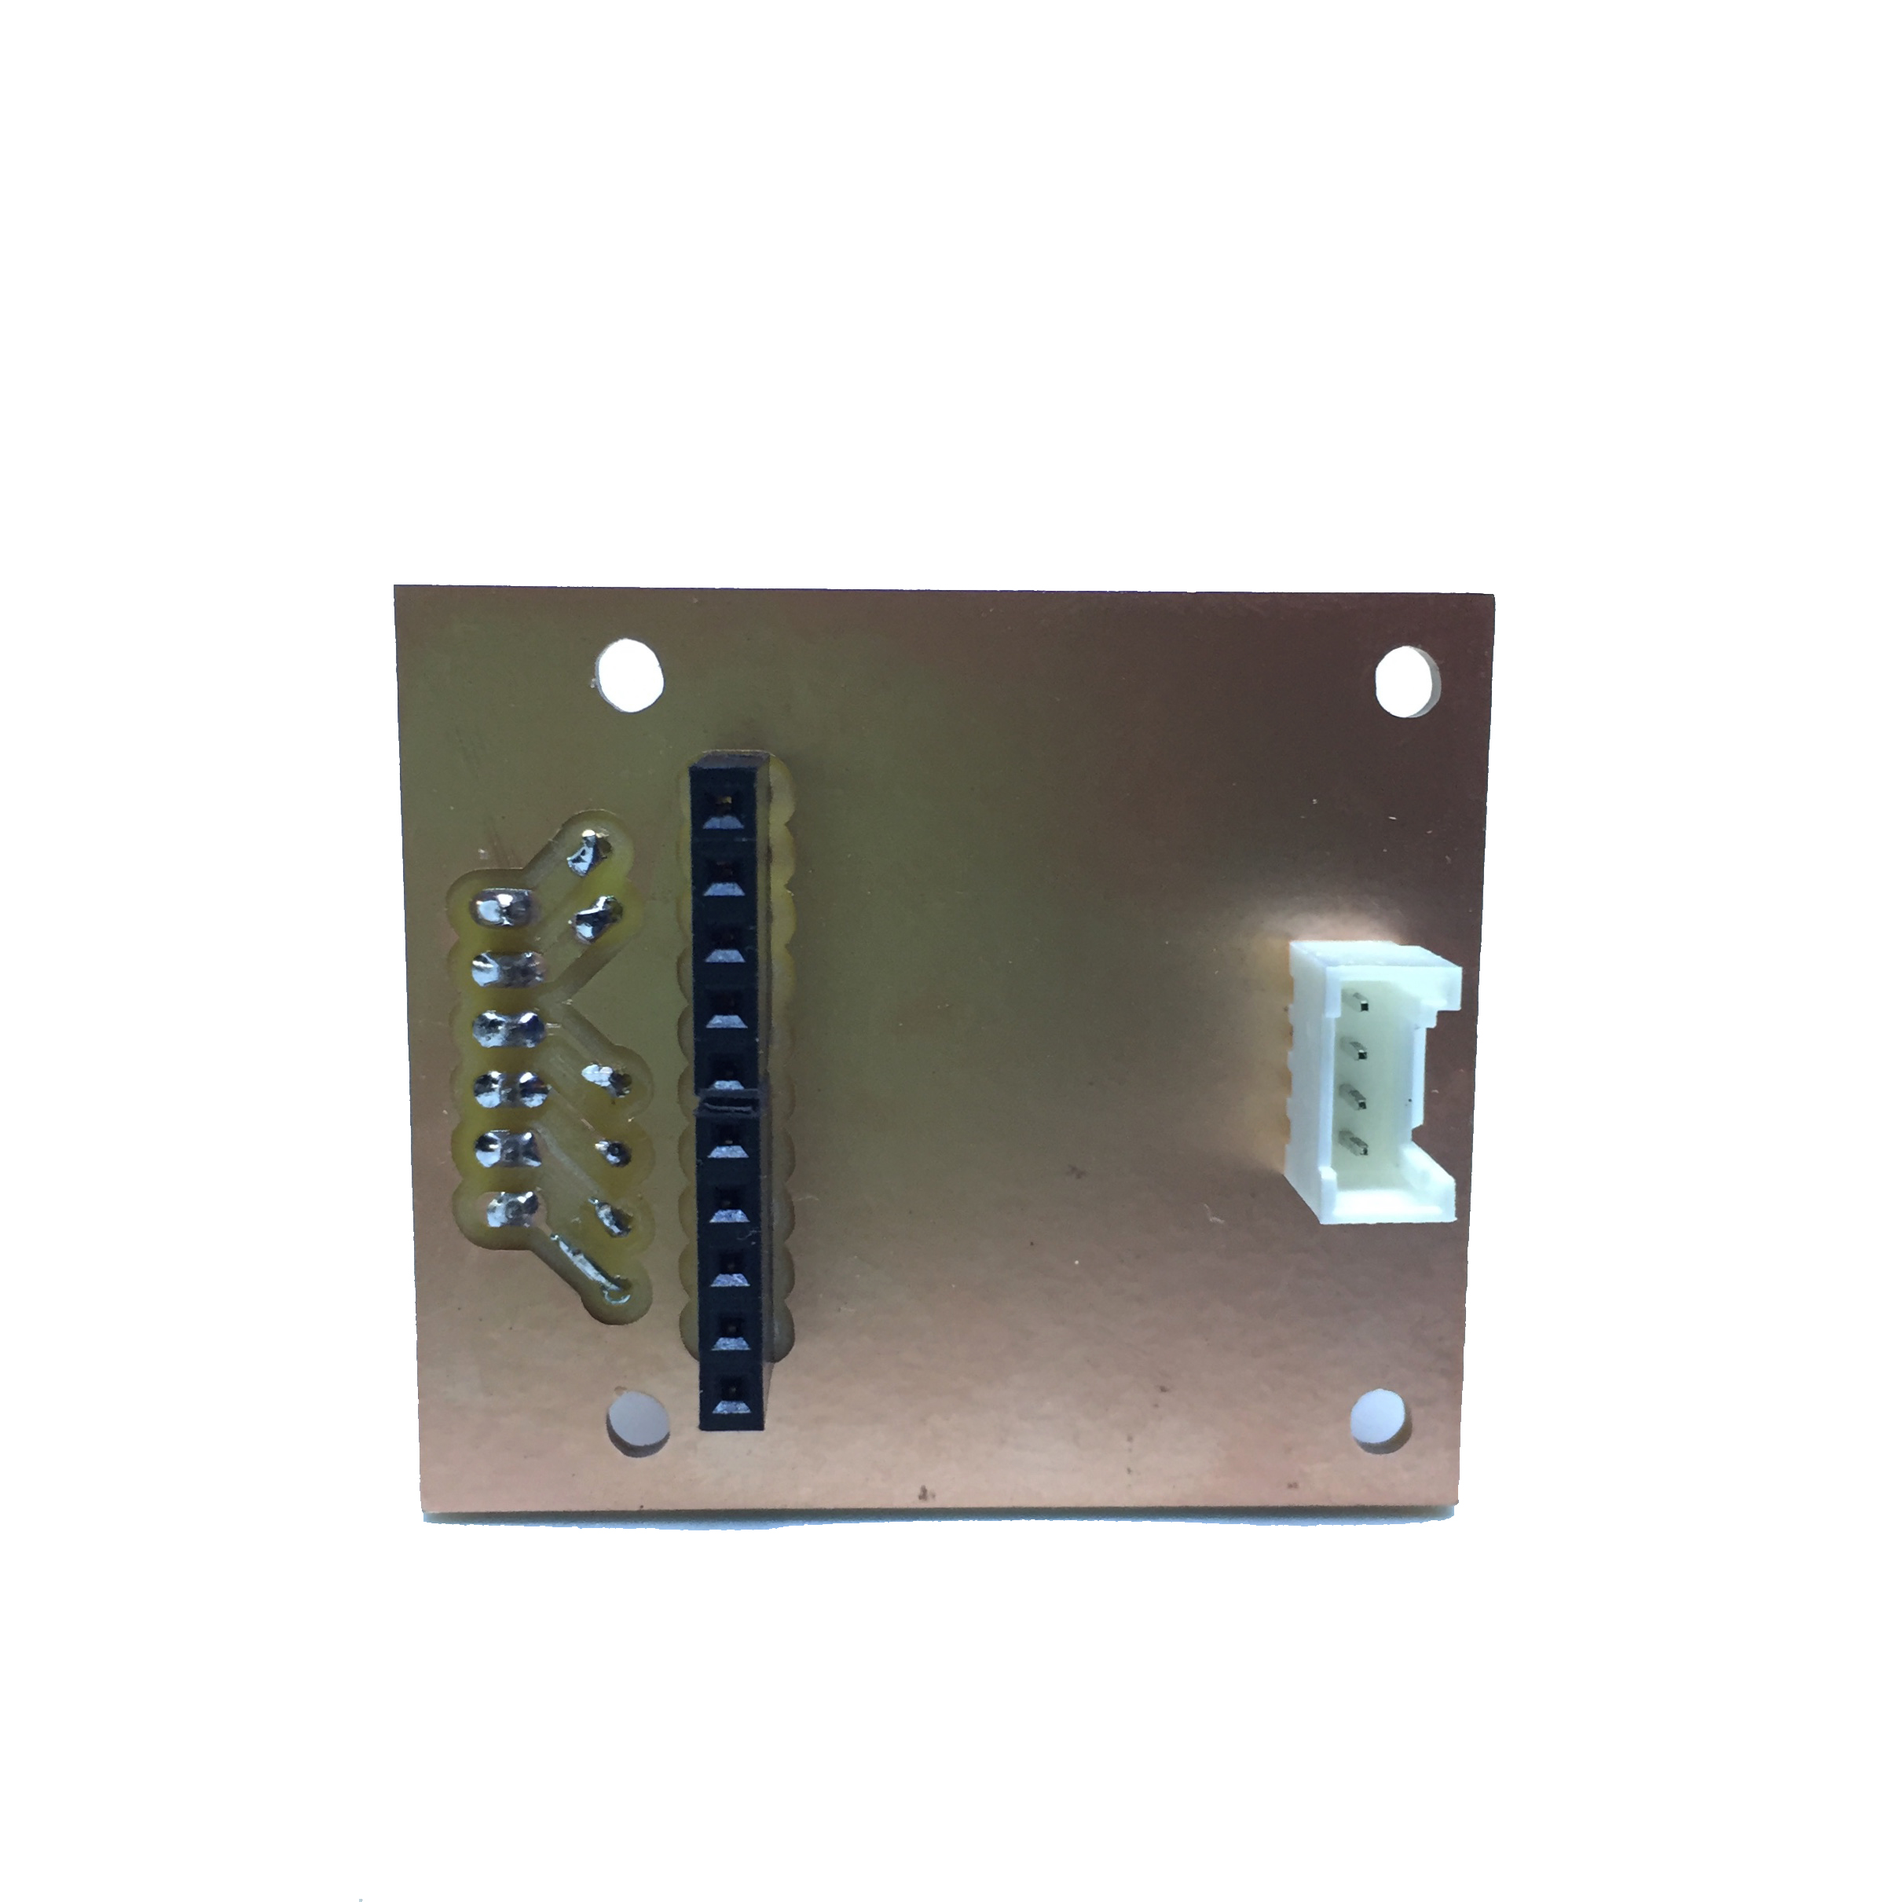
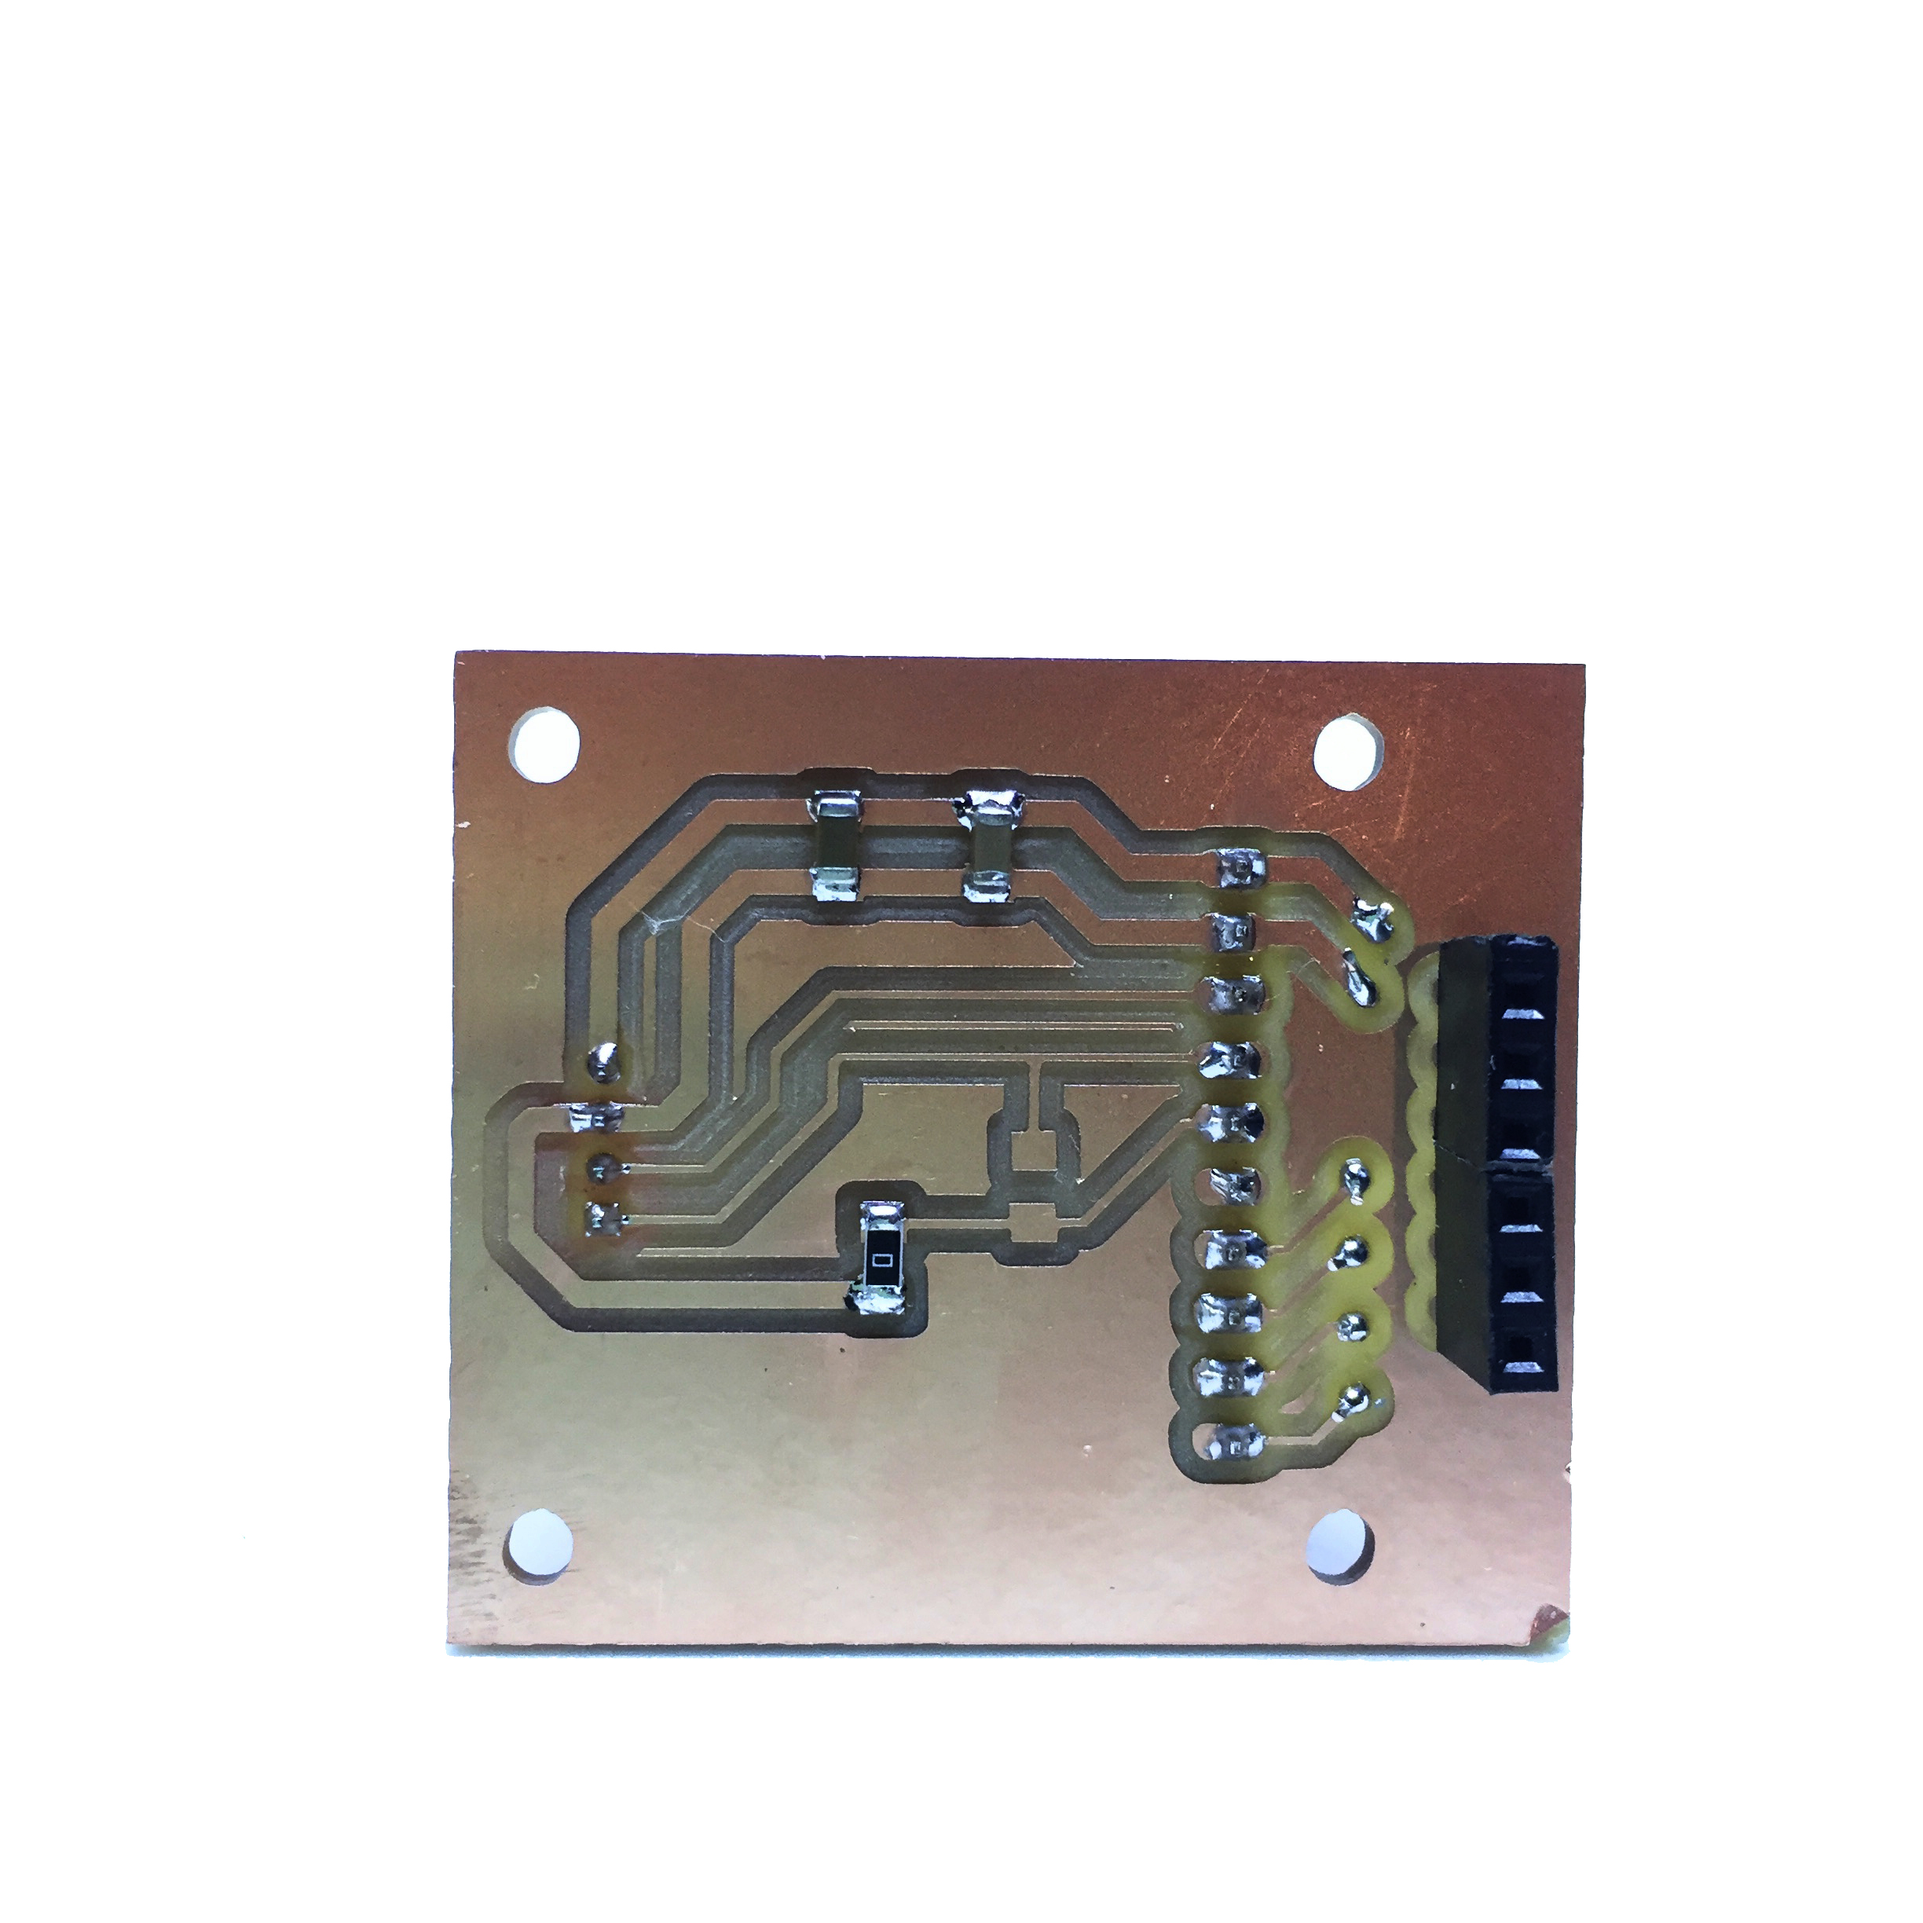
hardware

Changed region(s): [[0.1859, 0.3098, 0.8364, 0.8674]]

diff --git a/MUV Kit/Hardware/README.md b/MUV Kit/Hardware/README.md
@@ -31,6 +31,9 @@ The temp/hum pcb is a 2 layers board, the vias can be filled in with solid core 
 | <img src="images/gas_pcb_top_view.png"  width="300">  | <img src="images/gas_pcb_bottom_view.png"  width="300">|
 | Components placed on the top layer <br> <img src="images/gas_pcb_top.jpg"  width="300">  | Components placed on the bottom layer <br> <img src="images/gas_pcb_bottom.jpg"  width="300">|
 
+Note: this board can be used for both NO2 and O3 sensor but it is necessary to solder the zero ohm resistor a different place. For the NO2 sensor the zero ohm resistor must be placed on R1, for the O3 sensor the zero ohm resistor must be placed on R2.
+
+
 #### Noise pcb
 | top view  | bottom view |
 | ------------- | ------------- |
